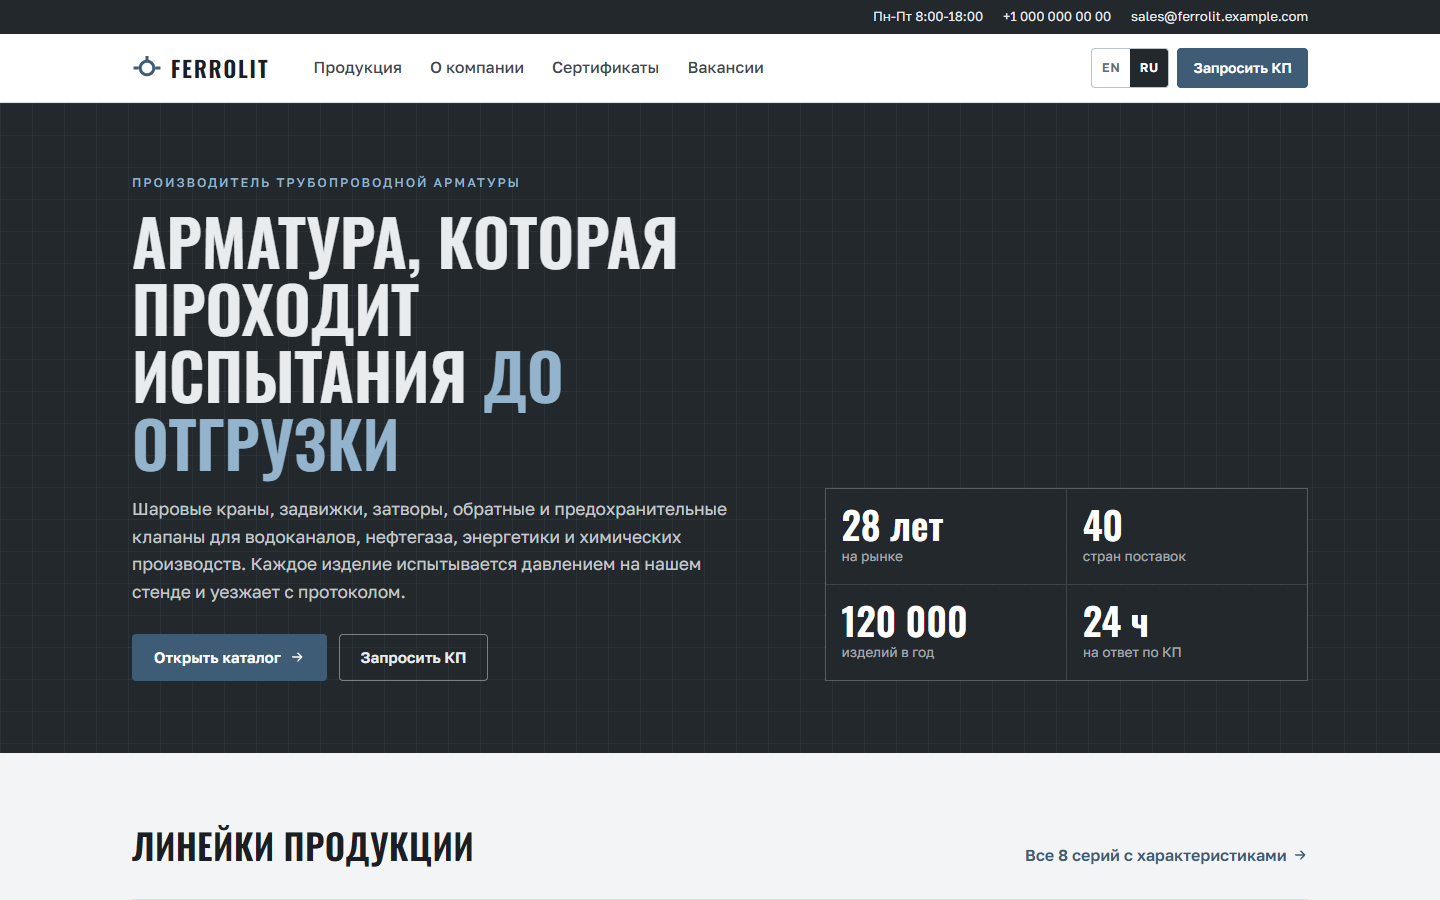
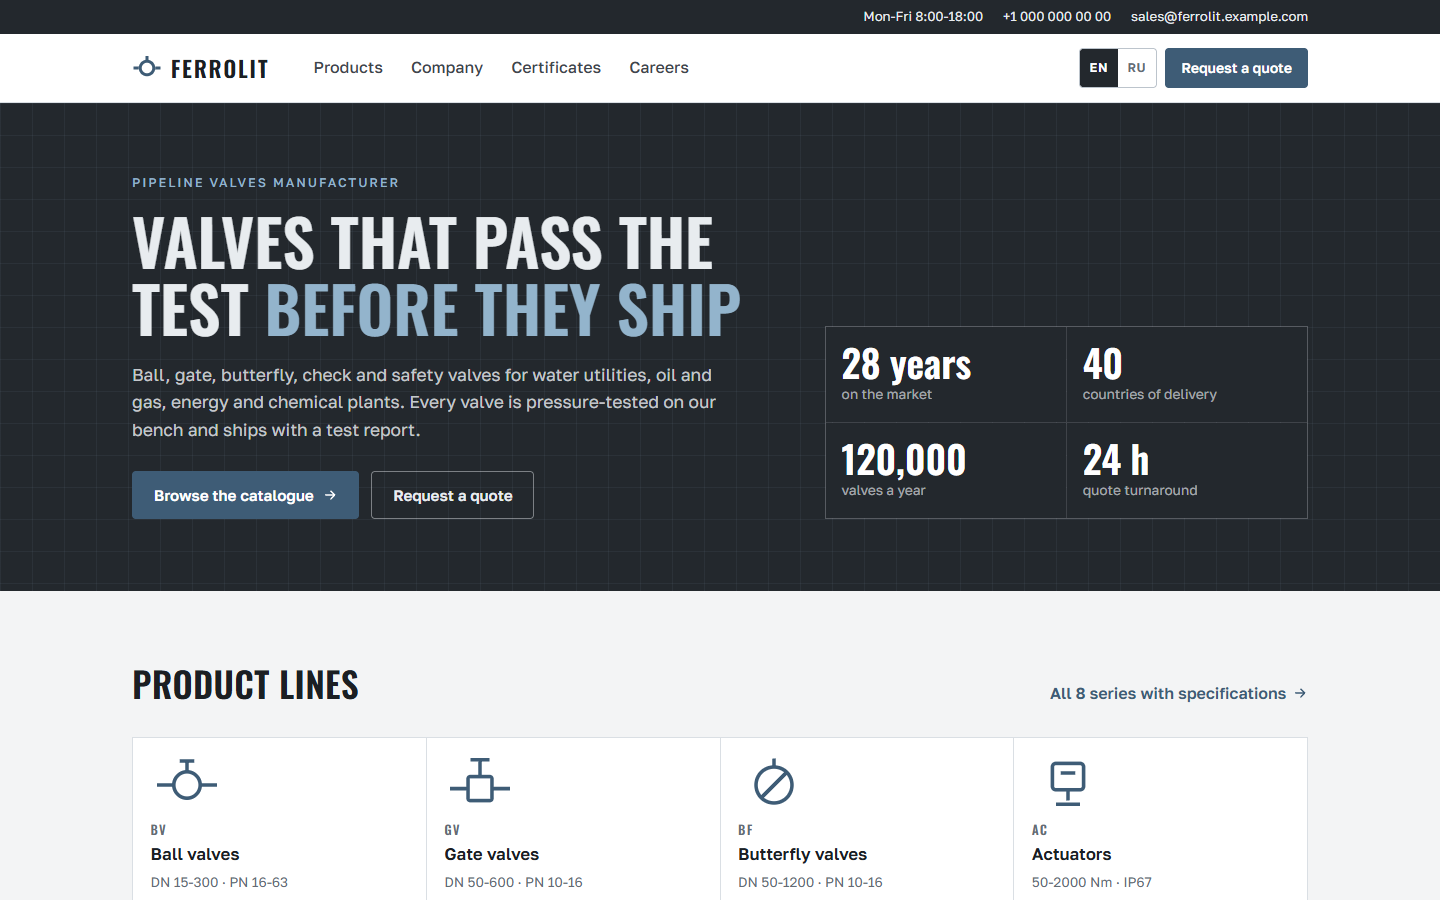
Site files, README and preview

diff --git a/careers.html b/careers.html
@@ -23,7 +23,7 @@
     var m = location.search.match(/[?&]lang=([a-z]{2})/i);
     if (m && langs.indexOf(m[1].toLowerCase()) > -1) lang = m[1].toLowerCase();
     if (!lang) { try { var s = localStorage.getItem('fv-lang'); if (langs.indexOf(s) > -1) lang = s; } catch (e) {} }
-    if (!lang) lang = /^ru/i.test(navigator.language || '') ? 'ru' : 'en';
+    if (!lang) lang = 'en';
     d.setAttribute('data-lang', lang);
     if (lang !== 'en') { d.className += ' i18n-pending'; setTimeout(function () { d.classList.remove('i18n-pending'); }, 1200); }
   })();

diff --git a/company.html b/company.html
@@ -23,7 +23,7 @@
     var m = location.search.match(/[?&]lang=([a-z]{2})/i);
     if (m && langs.indexOf(m[1].toLowerCase()) > -1) lang = m[1].toLowerCase();
     if (!lang) { try { var s = localStorage.getItem('fv-lang'); if (langs.indexOf(s) > -1) lang = s; } catch (e) {} }
-    if (!lang) lang = /^ru/i.test(navigator.language || '') ? 'ru' : 'en';
+    if (!lang) lang = 'en';
     d.setAttribute('data-lang', lang);
     if (lang !== 'en') { d.className += ' i18n-pending'; setTimeout(function () { d.classList.remove('i18n-pending'); }, 1200); }
   })();

diff --git a/index.html b/index.html
@@ -23,7 +23,7 @@
     var m = location.search.match(/[?&]lang=([a-z]{2})/i);
     if (m && langs.indexOf(m[1].toLowerCase()) > -1) lang = m[1].toLowerCase();
     if (!lang) { try { var s = localStorage.getItem('fv-lang'); if (langs.indexOf(s) > -1) lang = s; } catch (e) {} }
-    if (!lang) lang = /^ru/i.test(navigator.language || '') ? 'ru' : 'en';
+    if (!lang) lang = 'en';
     d.setAttribute('data-lang', lang);
     if (lang !== 'en') { d.className += ' i18n-pending'; setTimeout(function () { d.classList.remove('i18n-pending'); }, 1200); }
   })();

diff --git a/products.html b/products.html
@@ -23,7 +23,7 @@
     var m = location.search.match(/[?&]lang=([a-z]{2})/i);
     if (m && langs.indexOf(m[1].toLowerCase()) > -1) lang = m[1].toLowerCase();
     if (!lang) { try { var s = localStorage.getItem('fv-lang'); if (langs.indexOf(s) > -1) lang = s; } catch (e) {} }
-    if (!lang) lang = /^ru/i.test(navigator.language || '') ? 'ru' : 'en';
+    if (!lang) lang = 'en';
     d.setAttribute('data-lang', lang);
     if (lang !== 'en') { d.className += ' i18n-pending'; setTimeout(function () { d.classList.remove('i18n-pending'); }, 1200); }
   })();

diff --git a/rfq.html b/rfq.html
@@ -23,7 +23,7 @@
     var m = location.search.match(/[?&]lang=([a-z]{2})/i);
     if (m && langs.indexOf(m[1].toLowerCase()) > -1) lang = m[1].toLowerCase();
     if (!lang) { try { var s = localStorage.getItem('fv-lang'); if (langs.indexOf(s) > -1) lang = s; } catch (e) {} }
-    if (!lang) lang = /^ru/i.test(navigator.language || '') ? 'ru' : 'en';
+    if (!lang) lang = 'en';
     d.setAttribute('data-lang', lang);
     if (lang !== 'en') { d.className += ' i18n-pending'; setTimeout(function () { d.classList.remove('i18n-pending'); }, 1200); }
   })();
